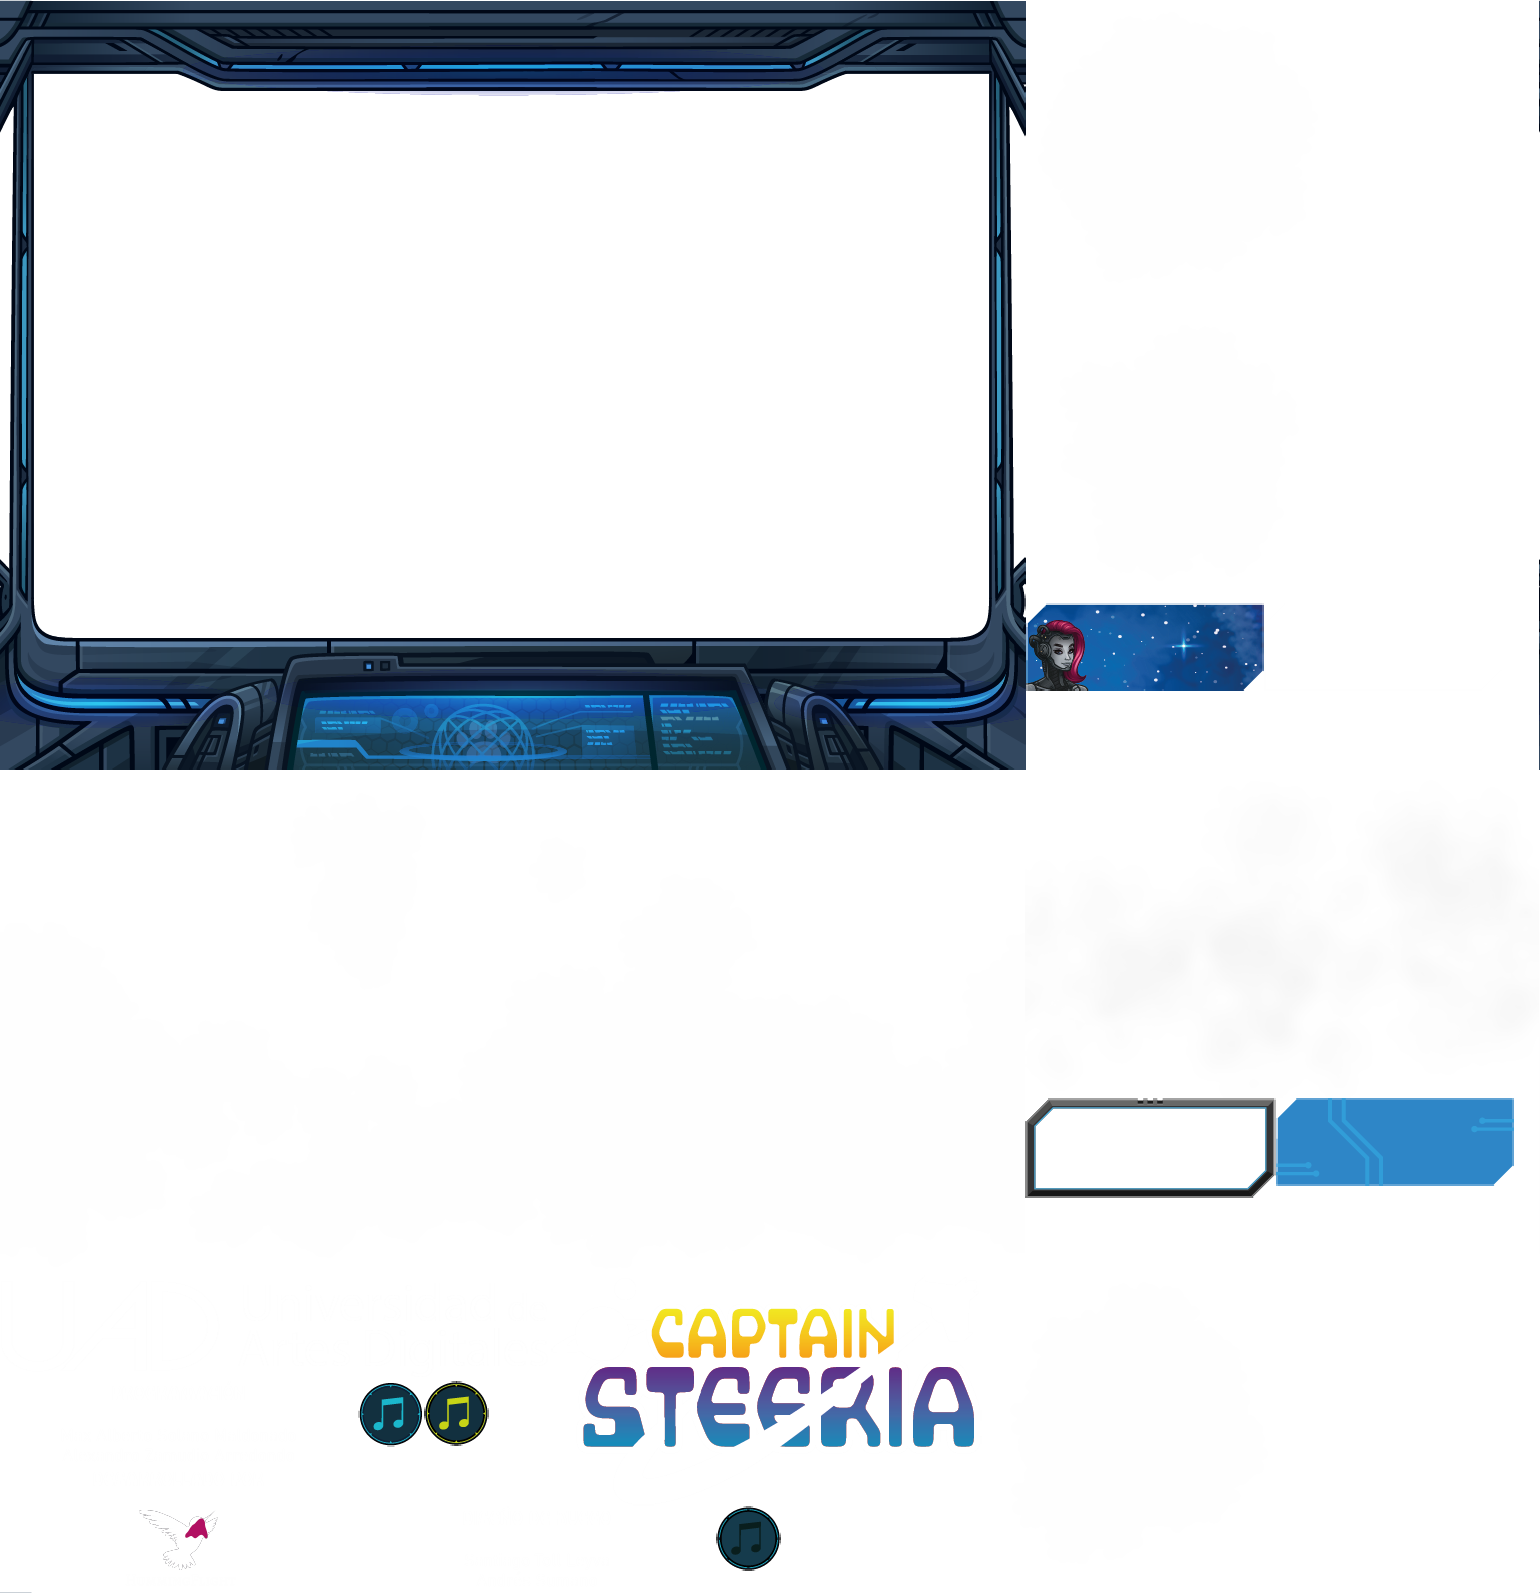
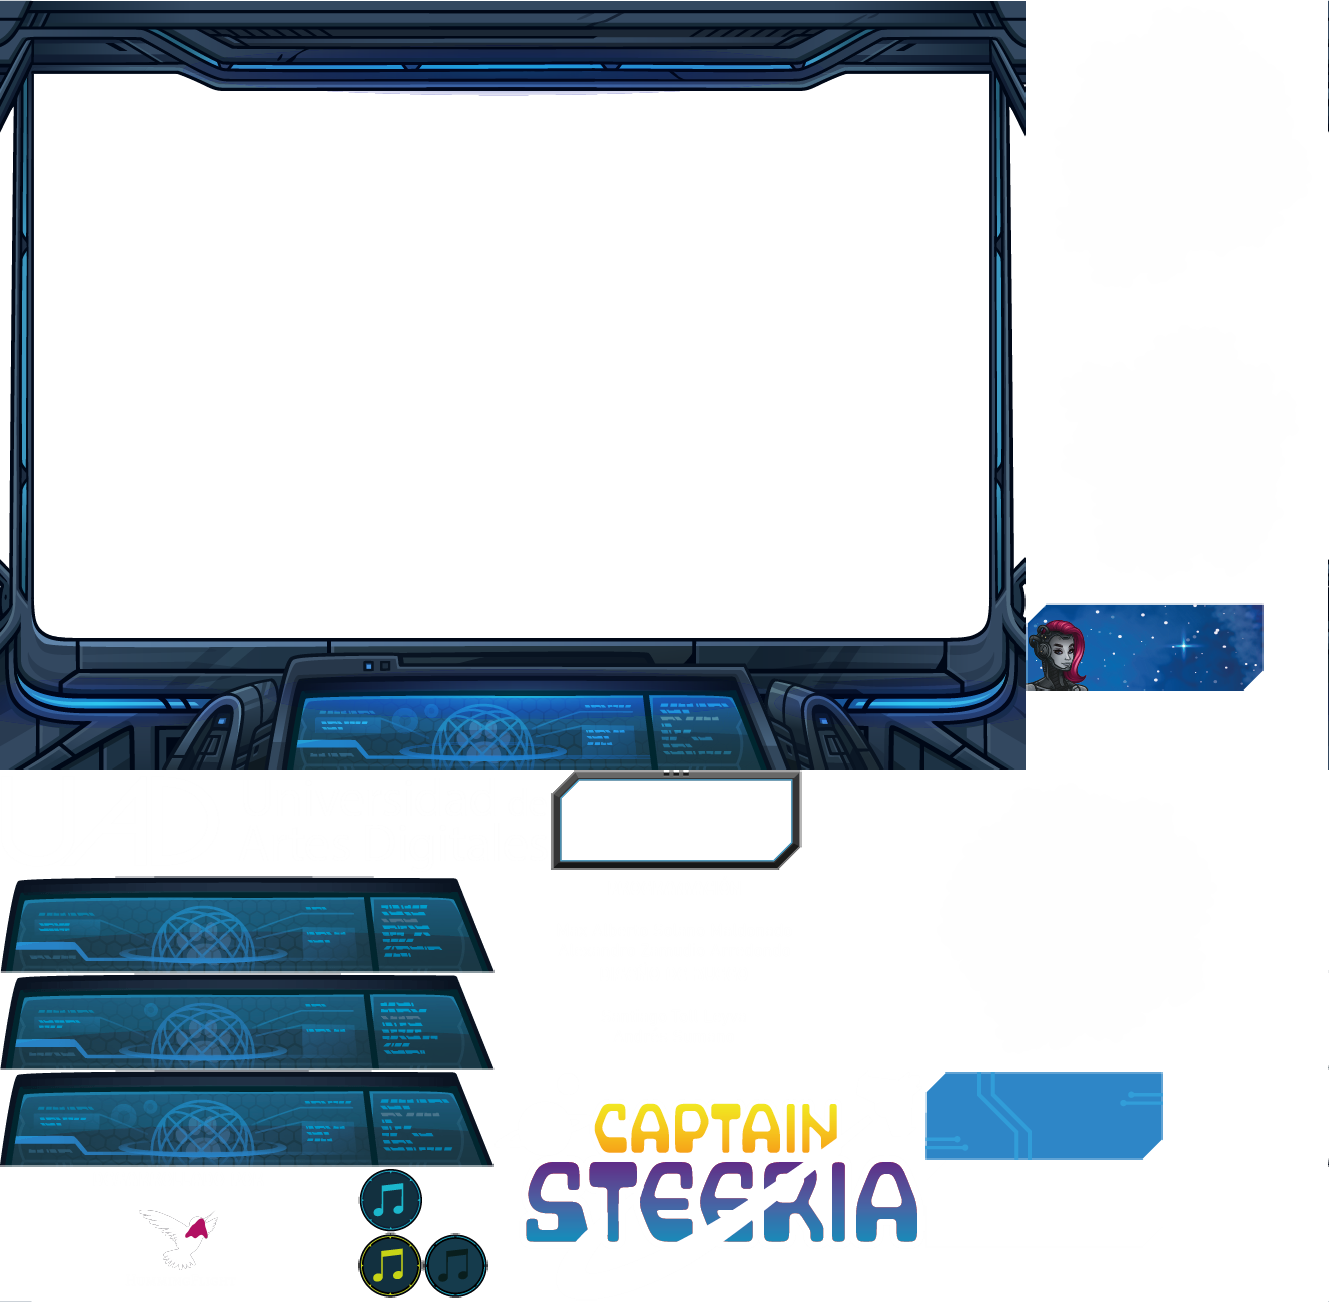
add: Main menu ship panel animation

diff --git a/game/assets/images/game_menu/menu_art.js b/game/assets/images/game_menu/menu_art.js
@@ -1,7 +1,7 @@
 {
 "frames": {
 	"active_music_button.png": {
-		"frame": {"x":359, "y":1382, "w":64, "h":64},
+		"frame": {"x":359, "y":1168, "w":64, "h":64},
 		"spriteSourceSize": {"x":0,"y":0,"w":64,"h":64},
 		"sourceSize": {"w":64,"h":64}
 	},
@@ -10,53 +10,43 @@
 		"spriteSourceSize": {"x":0,"y":0,"w":1025,"h":769},
 		"sourceSize": {"w":1025,"h":769}
 	},
-	"clouds.png": {
-		"frame": {"x":0, "y":771, "w":1024, "h":503},
-		"spriteSourceSize": {"x":0,"y":0,"w":1024,"h":503},
-		"sourceSize": {"w":1024,"h":503}
-	},
-	"clouds_2.png": {
-		"frame": {"x":1026, "y":771, "w":512, "h":326},
-		"spriteSourceSize": {"x":0,"y":0,"w":512,"h":326},
-		"sourceSize": {"w":512,"h":326}
-	},
 	"design_credits.png": {
-		"frame": {"x":359, "y":1507, "w":356, "h":84},
+		"frame": {"x":496, "y":963, "w":356, "h":84},
 		"spriteSourceSize": {"x":0,"y":0,"w":356,"h":84},
 		"sourceSize": {"w":356,"h":84}
 	},
 	"disable_music_button.png": {
-		"frame": {"x":717, "y":1507, "w":63, "h":63},
+		"frame": {"x":424, "y":1234, "w":63, "h":63},
 		"spriteSourceSize": {"x":0,"y":0,"w":63,"h":63},
 		"sourceSize": {"w":63,"h":63}
 	},
 	"game_logo.png": {
-		"frame": {"x":552, "y":1276, "w":429, "h":229},
+		"frame": {"x":495, "y":1071, "w":429, "h":229},
 		"spriteSourceSize": {"x":0,"y":0,"w":429,"h":229},
 		"sourceSize": {"w":429,"h":229}
 	},
 	"hover_music_button.png": {
-		"frame": {"x":425, "y":1382, "w":63, "h":63},
+		"frame": {"x":359, "y":1234, "w":63, "h":63},
 		"spriteSourceSize": {"x":0,"y":0,"w":63,"h":63},
 		"sourceSize": {"w":63,"h":63}
 	},
 	"humming_credits.png": {
-		"frame": {"x":0, "y":1468, "w":357, "h":123},
+		"frame": {"x":0, "y":1168, "w":357, "h":123},
 		"spriteSourceSize": {"x":0,"y":0,"w":357,"h":123},
 		"sourceSize": {"w":357,"h":123}
 	},
 	"main_btn_bg.png": {
-		"frame": {"x":1277, "y":1099, "w":236, "h":86},
+		"frame": {"x":926, "y":1073, "w":236, "h":86},
 		"spriteSourceSize": {"x":0,"y":0,"w":236,"h":86},
 		"sourceSize": {"w":236,"h":86}
 	},
 	"menu_btn_bg.png": {
-		"frame": {"x":1265, "y":604, "w":236, "h":86},
+		"frame": {"x":926, "y":1161, "w":236, "h":86},
 		"spriteSourceSize": {"x":0,"y":0,"w":236,"h":86},
 		"sourceSize": {"w":236,"h":86}
 	},
 	"menu_btn_border.png": {
-		"frame": {"x":1026, "y":1099, "w":249, "h":98},
+		"frame": {"x":552, "y":771, "w":249, "h":98},
 		"spriteSourceSize": {"x":0,"y":0,"w":249,"h":98},
 		"sourceSize": {"w":249,"h":98}
 	},
@@ -66,19 +56,34 @@
 		"sourceSize": {"w":300,"h":300}
 	},
 	"particle2.png": {
-		"frame": {"x":1027, "y":0, "w":300, "h":300},
+		"frame": {"x":926, "y":771, "w":300, "h":300},
 		"spriteSourceSize": {"x":0,"y":0,"w":300,"h":300},
 		"sourceSize": {"w":300,"h":300}
 	},
 	"particle3.png": {
-		"frame": {"x":983, "y":1276, "w":300, "h":300},
+		"frame": {"x":1027, "y":0, "w":300, "h":300},
 		"spriteSourceSize": {"x":0,"y":0,"w":300,"h":300},
 		"sourceSize": {"w":300,"h":300}
 	},
 	"progra_credits.png": {
-		"frame": {"x":0, "y":1382, "w":357, "h":84},
+		"frame": {"x":496, "y":877, "w":357, "h":84},
 		"spriteSourceSize": {"x":0,"y":0,"w":357,"h":84},
 		"sourceSize": {"w":357,"h":84}
+	},
+	"ship_panel_0.png": {
+		"frame": {"x":0, "y":1071, "w":493, "h":95},
+		"spriteSourceSize": {"x":0,"y":0,"w":493,"h":95},
+		"sourceSize": {"w":493,"h":95}
+	},
+	"ship_panel_1.png": {
+		"frame": {"x":0, "y":974, "w":494, "h":95},
+		"spriteSourceSize": {"x":0,"y":0,"w":494,"h":95},
+		"sourceSize": {"w":494,"h":95}
+	},
+	"ship_panel_2.png": {
+		"frame": {"x":0, "y":877, "w":494, "h":95},
+		"spriteSourceSize": {"x":0,"y":0,"w":494,"h":95},
+		"sourceSize": {"w":494,"h":95}
 	},
 	"steeria_btn_bg.png": {
 		"frame": {"x":1027, "y":604, "w":236, "h":86},
@@ -86,7 +91,7 @@
 		"sourceSize": {"w":236,"h":86}
 	},
 	"uad_logo.png": {
-		"frame": {"x":0, "y":1276, "w":550, "h":104},
+		"frame": {"x":0, "y":771, "w":550, "h":104},
 		"spriteSourceSize": {"x":0,"y":0,"w":550,"h":104},
 		"sourceSize": {"w":550,"h":104}
 	}
@@ -94,7 +99,7 @@
 },
 "meta": {
 	"image": "menu_art.png",
-	"size": {"w": 1540, "h": 1593},
+	"size": {"w": 1329, "h": 1302},
 	"scale": "1"
 }
 }

diff --git a/game/ts_src/scenes/sims/sceneArrival.ts b/game/ts_src/scenes/sims/sceneArrival.ts
@@ -46,8 +46,8 @@ extends Phaser.Scene
     master.onSimulationSceneCreate(this);
 
     /****************************************************/
-     /* Ambient                                          */
-     /****************************************************/
+    /* Ambient                                          */
+    /****************************************************/
 
      const ambienceMap = MapScene.CreateFromTiledMap("ambience_03", this);
 

diff --git a/game/ts_src/scenes/preload.ts b/game/ts_src/scenes/preload.ts
@@ -50,10 +50,10 @@ extends Phaser.Scene
       "animations/ambienceAnimations.json"
     );
 
-    loader.image
+    loader.animation
     (
-      'button',
-      'images/button.png'
+      "menu_animations",
+      "animations/menuAnimations.json"
     );
 
     /****************************************************/
